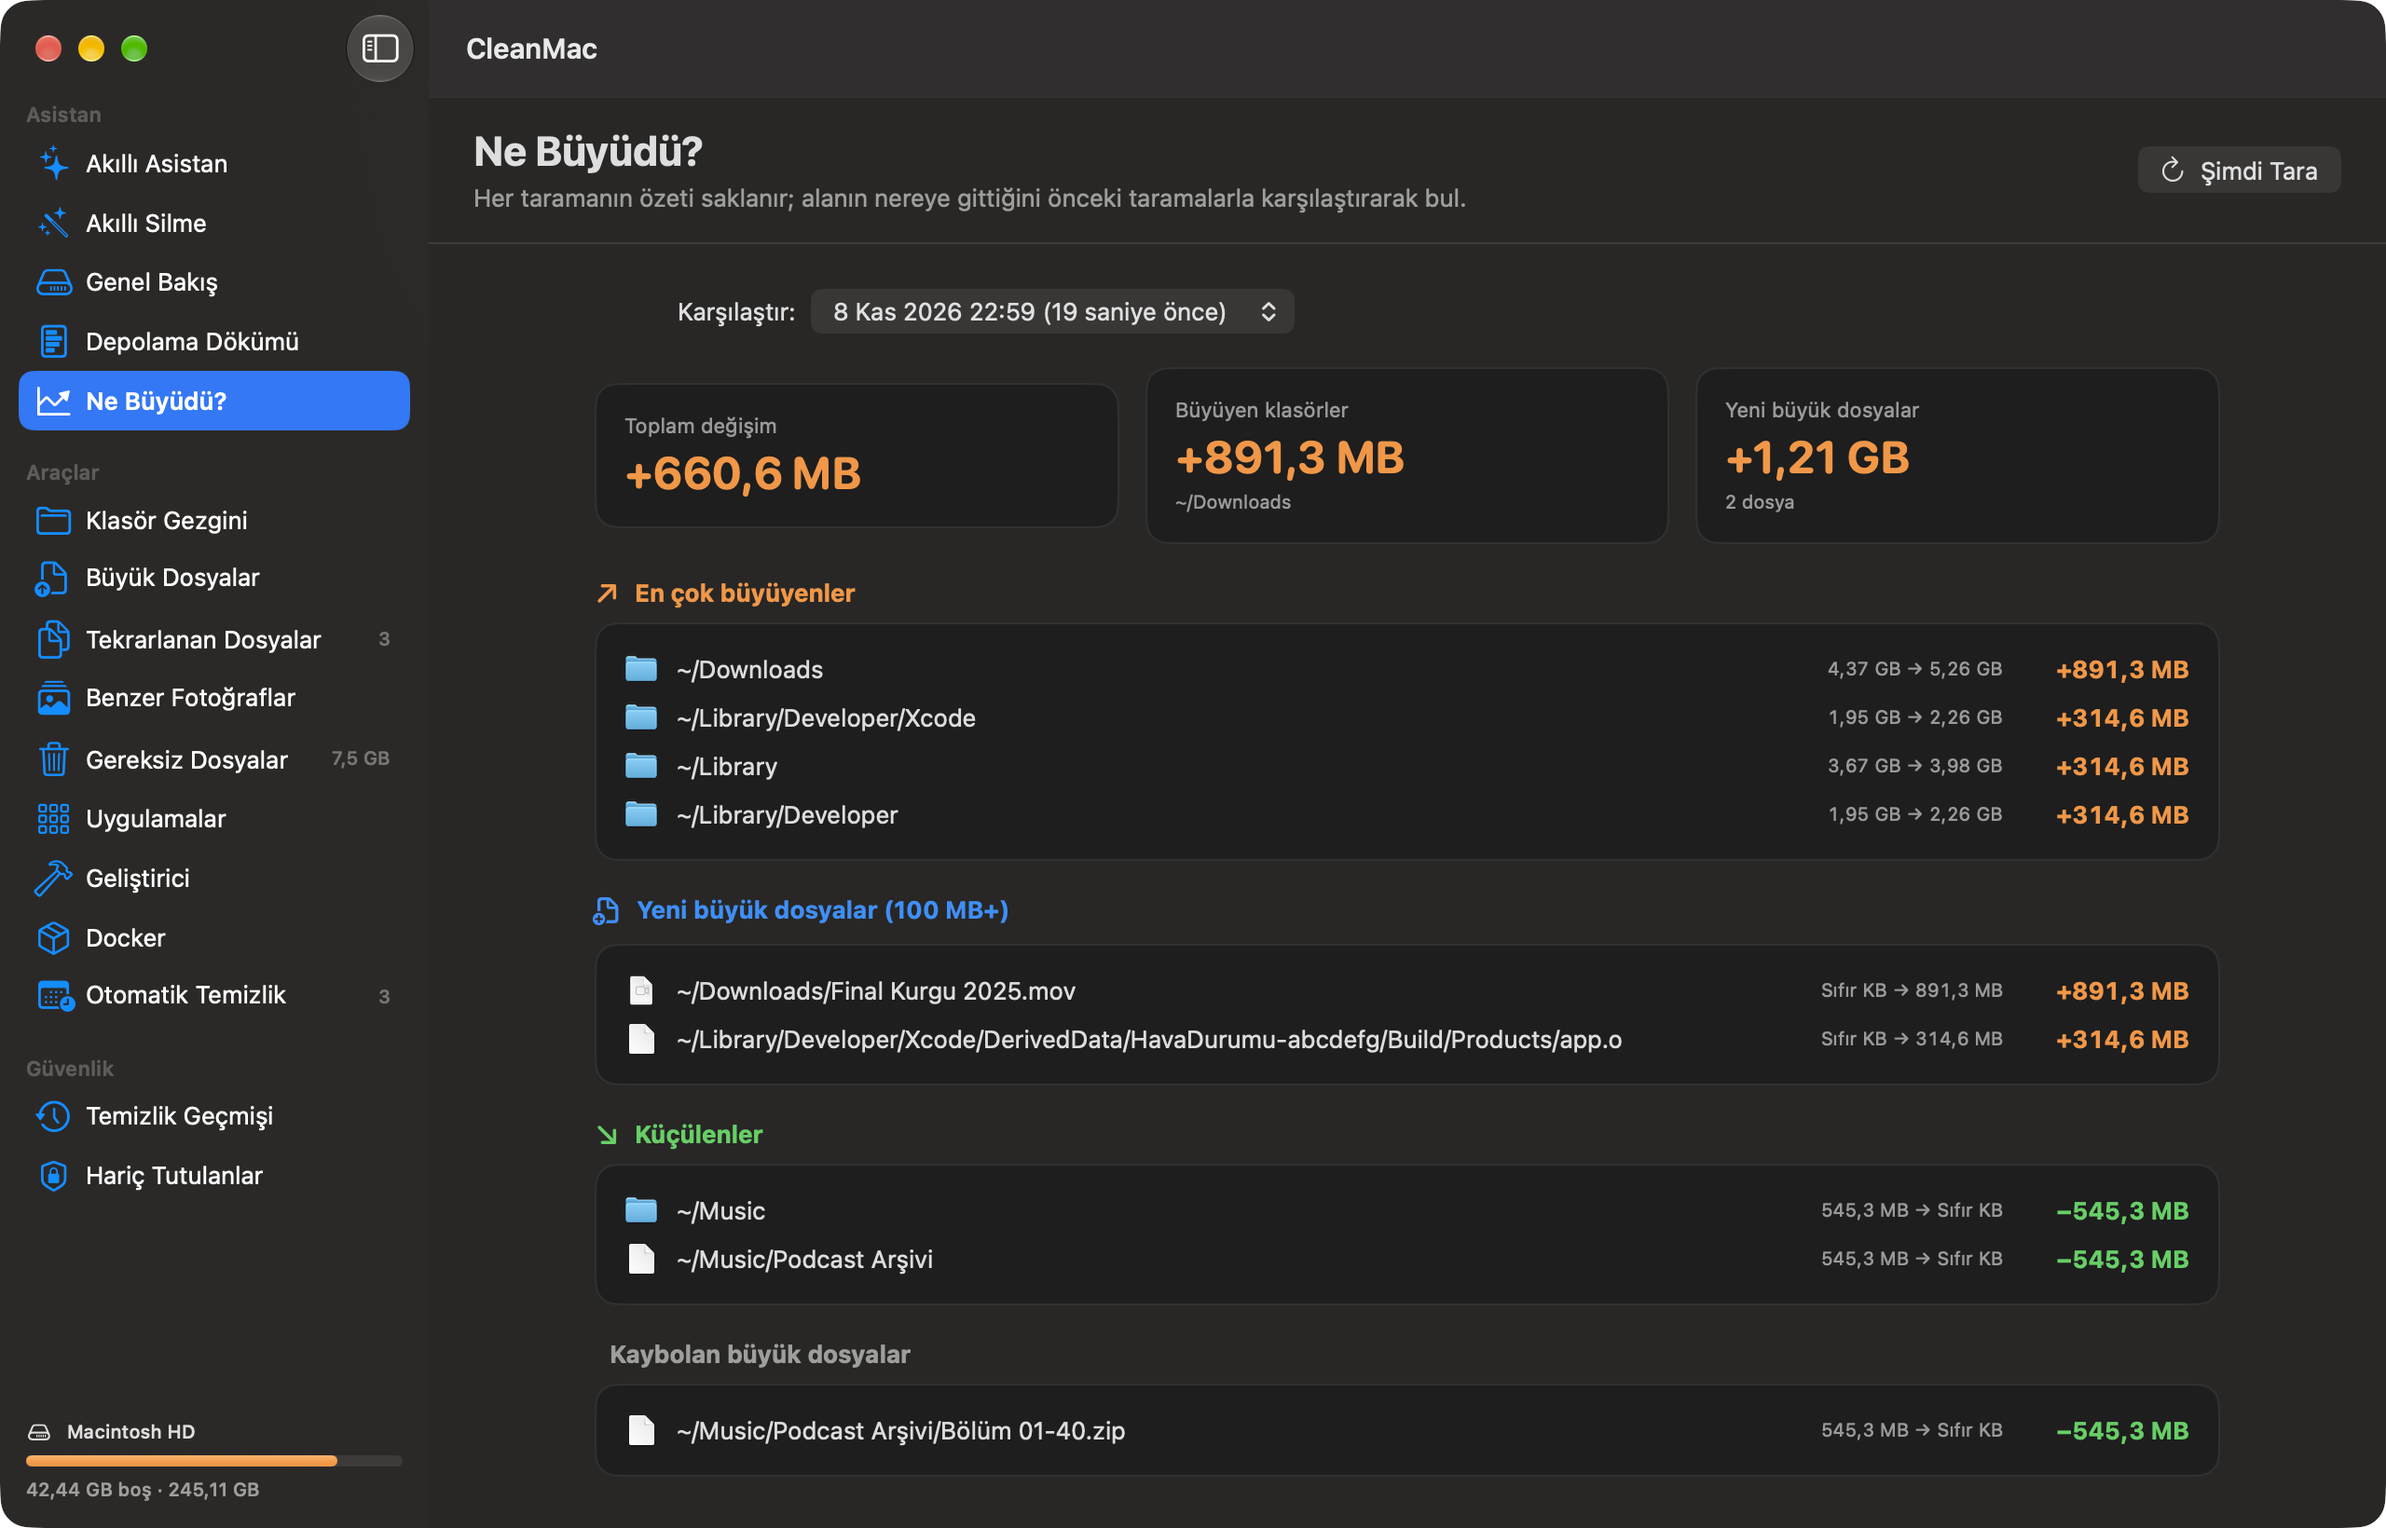
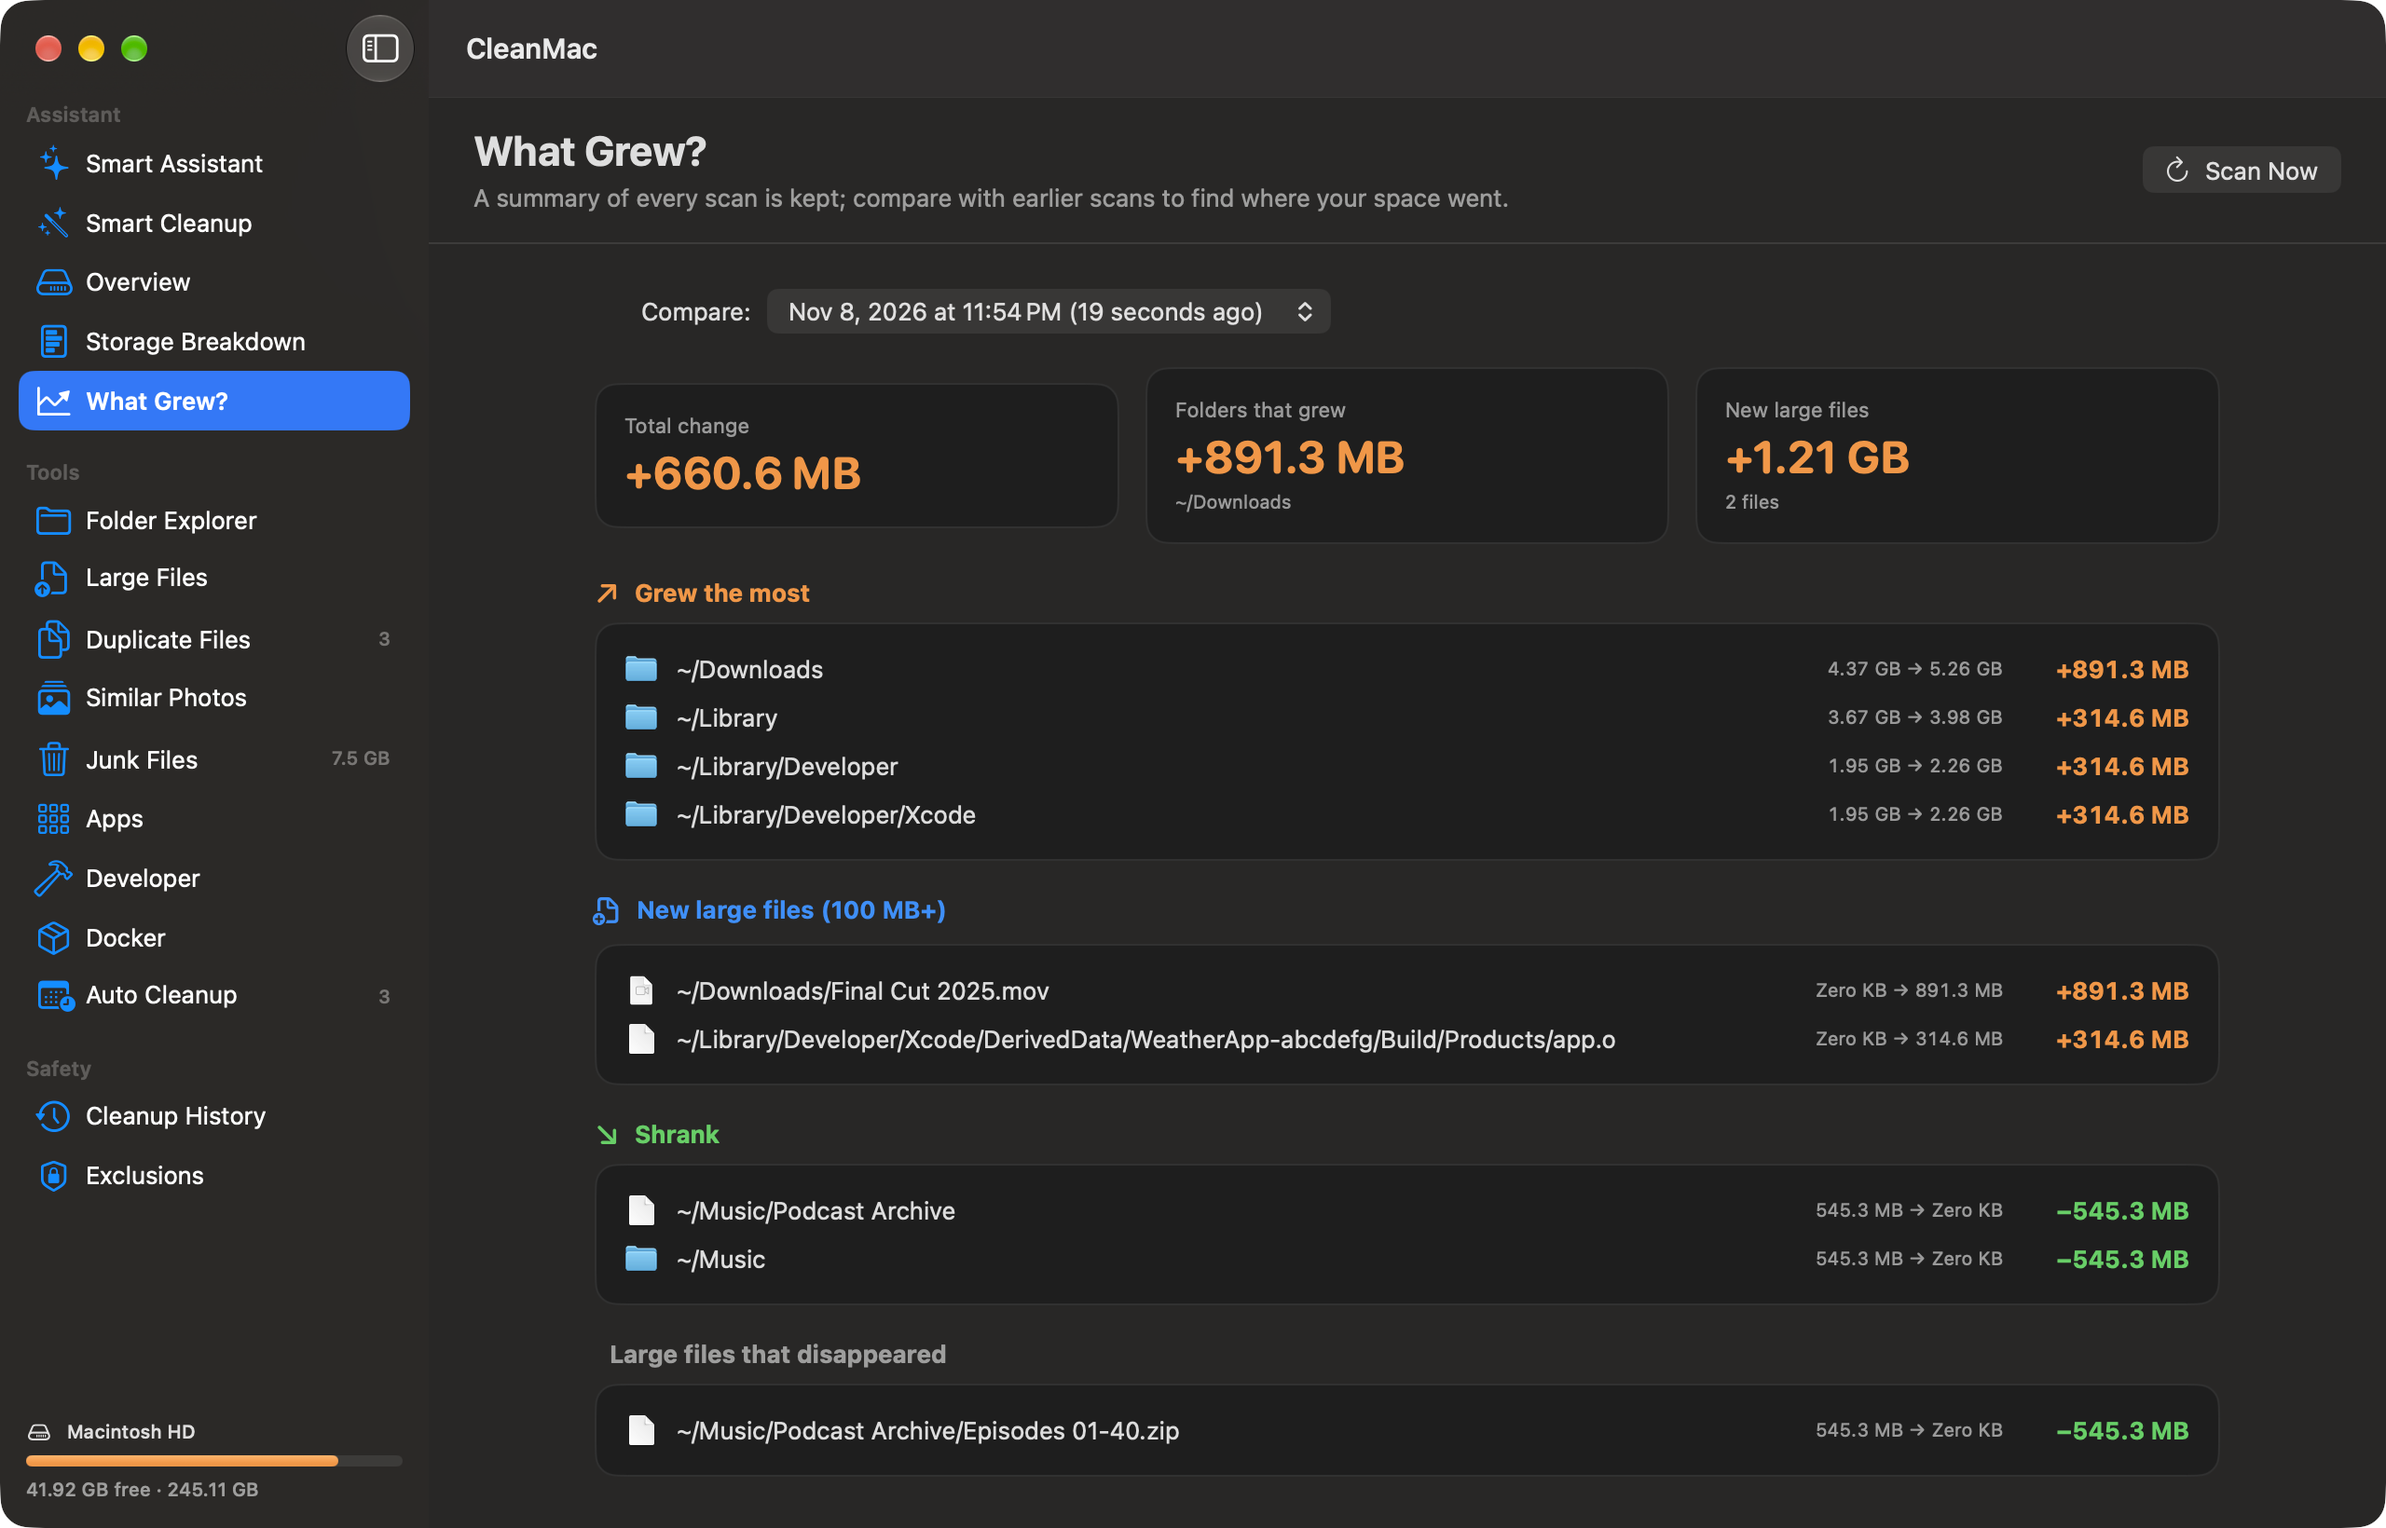
Translate scripts and regenerate screenshots in English

diff --git a/scripts/make-icon.swift b/scripts/make-icon.swift
@@ -1,16 +1,16 @@
-// Uygulama simgesini üretir: swift scripts/make-icon.swift <logo.png> <çıktı-klasörü>
-// Logo kenarlardaki yarı saydam lekelerden temizlenir, kırpılır ve beyaz çerçeveli macOS simgesine yerleştirilir.
+// Generates the app icon: swift scripts/make-icon.swift <logo.png> <output-folder>
+// The logo is cleaned of semi-transparent specks around the edges, cropped and placed on a white-framed macOS icon.
 import AppKit
 
 let args = CommandLine.arguments
 let source = URL(fileURLWithPath: args.count > 1 ? args[1] : "Resources/logo.png")
 let outDir = URL(fileURLWithPath: args.count > 2 ? args[2] : "Resources")
 
-// MARK: - Logoyu temizle
+// MARK: - Clean up the logo
 
 func cleanedLogo(_ url: URL) -> CGImage {
     guard let img = NSImage(contentsOf: url), let cg = img.cgImage(forProposedRect: nil, context: nil, hints: nil) else {
-        fatalError("Logo okunamadı: \(url.path)")
+        fatalError("Couldn't read the logo: \(url.path)")
     }
     let w = cg.width, h = cg.height
     var px = [UInt8](repeating: 0, count: w * h * 4)
@@ -18,7 +18,7 @@ func cleanedLogo(_ url: URL) -> CGImage {
                         space: CGColorSpaceCreateDeviceRGB(), bitmapInfo: CGImageAlphaInfo.premultipliedLast.rawValue)!
     ctx.draw(cg, in: CGRect(x: 0, y: 0, width: w, height: h))
 
-    // Belirgin (alfa > 120) piksellerden en büyük bağlı bileşen = logonun kendisi.
+    // The largest connected component of solid (alpha > 120) pixels is the logo itself.
     let solid = (0..<(w * h)).map { px[$0 * 4 + 3] > 120 }
     var label = [Int32](repeating: 0, count: w * h)
     var best: Int32 = 0, bestCount = 0, next: Int32 = 1
@@ -41,7 +41,7 @@ func cleanedLogo(_ url: URL) -> CGImage {
         next += 1
     }
 
-    // Kenar yumuşatmasını korumak için maskeyi 2 piksel genişlet; dışındaki her şeyi sil.
+    // Dilate the mask by 2 pixels to keep the anti-aliasing; erase everything outside it.
     var keep = label.map { $0 == best }
     for _ in 0..<2 {
         var grown = keep
@@ -66,7 +66,7 @@ func cleanedLogo(_ url: URL) -> CGImage {
 
 let logo = cleanedLogo(source)
 
-// MARK: - Simgeyi çiz
+// MARK: - Draw the icon
 
 func render(_ px: Int) -> Data {
     let rep = NSBitmapImageRep(bitmapDataPlanes: nil, pixelsWide: px, pixelsHigh: px, bitsPerSample: 8,
@@ -77,7 +77,7 @@ func render(_ px: Int) -> Data {
     NSGraphicsContext.current = gctx
     gctx.imageInterpolation = .high
     let s = CGFloat(px)
-    // macOS simge ızgarası: 1024'lük tuvalde 824'lük yuvarlatılmış kare.
+    // macOS icon grid: an 824 pt rounded square on a 1024 pt canvas.
     let tile = NSRect(x: s * 0.0977, y: s * 0.0977, width: s * 0.8047, height: s * 0.8047)
     let radius = tile.width * 0.225
     let path = NSBezierPath(roundedRect: tile, xRadius: radius, yRadius: radius)
@@ -97,7 +97,7 @@ func render(_ px: Int) -> Data {
     path.lineWidth = max(1, s * 0.004)
     path.stroke()
 
-    // Logoyu karenin %78'ine sığdır ve ortala.
+    // Fit the logo into 78% of the square and center it.
     let box = tile.insetBy(dx: tile.width * 0.11, dy: tile.height * 0.11)
     let aspect = CGFloat(logo.width) / CGFloat(logo.height)
     var size = NSSize(width: box.width, height: box.width / aspect)
@@ -123,4 +123,4 @@ p.arguments = ["-c", "icns", iconset.path, "-o", outDir.appendingPathComponent("
 try! p.run()
 p.waitUntilExit()
 try? FileManager.default.removeItem(at: iconset)
-print("AppIcon.icns oluşturuldu")
+print("AppIcon.icns created")
